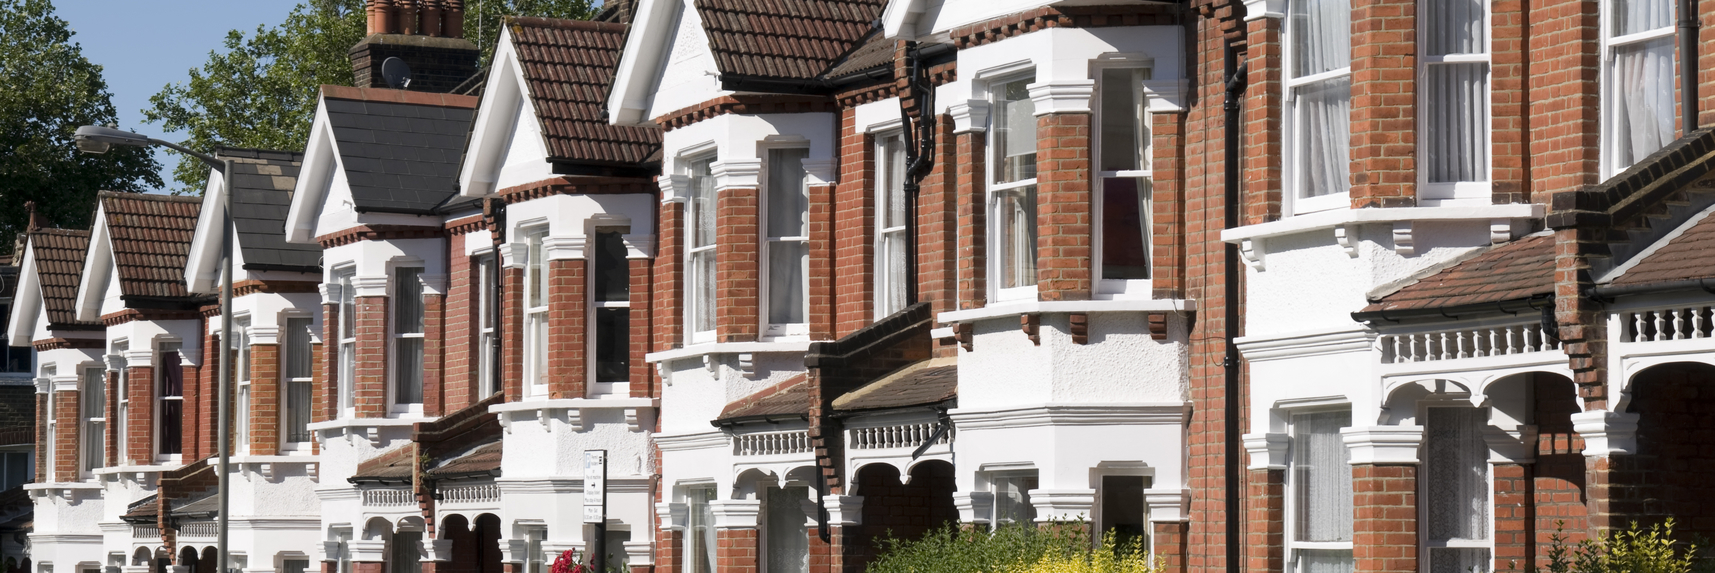
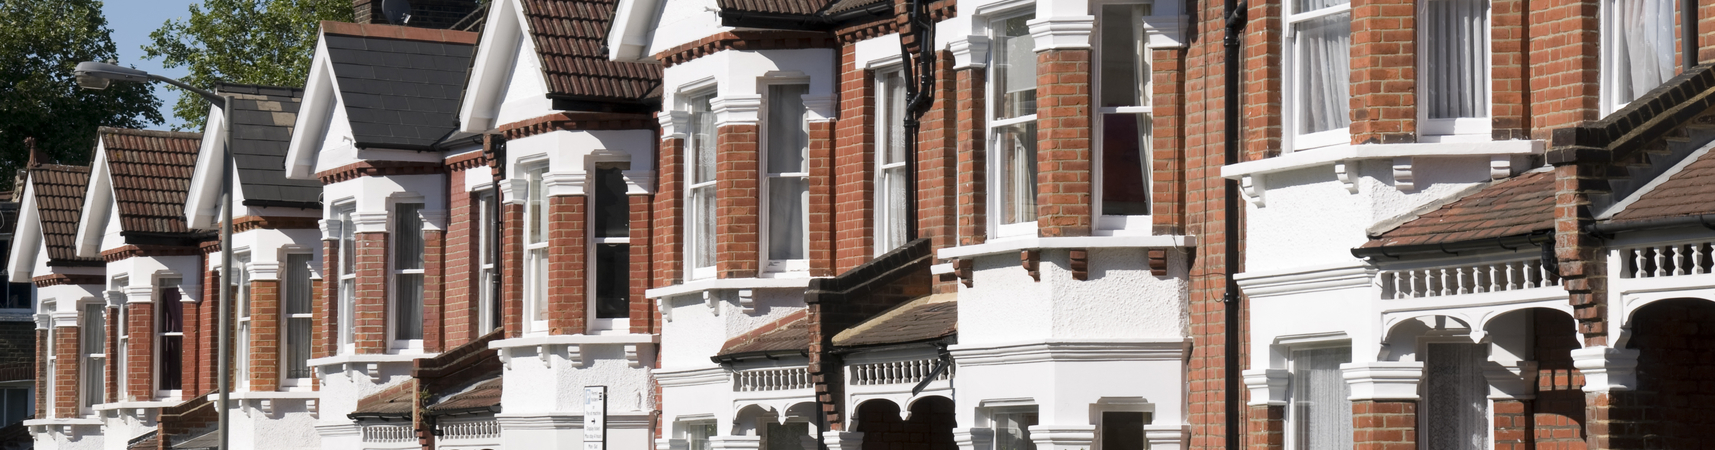
layout

diff --git a/src/css/header.less b/src/css/header.less
@@ -1,65 +1,26 @@
 header {
-    top: 50px;
-    display: block;
-    height: 100px;
-    margin-bottom: 50px;
+    .banner {
+        width: 100%;
+        // height: 150px;
+        overflow: hidden;
+        position: relative;
 
+        img {
+            width: 100%;
+            margin-top: -11%;
 
-    .bar {
-        background: @bg-color;
-        padding: 5px 50px 5px 50px;
-        color: @text-highlight-bg-color;
-        font-family : @heading-font;
-        margin-top: 50px;
-        height: @font-size-xl;
-        line-height: @font-size-xl;
-    }
-
-    img {
-        position: absolute;
-        top: 0px;
-        border: 7px solid #fff;
-    }
-
-    .name {
-        font-size   : @font-size-xl;
-        font-weight: normal;
-        margin      : 0 0 0 120px;
-        padding     : 0;
-    }
-
-    .cv {
-        font-family: @body-font;
-        position: absolute;
-        top: -10px;
-        left: 170px;
-        text-transform: capitalize;
-        color: @bg-color;
-    }
-
-    .contacts {
-        font-size    : @font-size-l;
-        float        : right;
-        margin-right : 20px;
-        font-weight: normal;
-
-        a {
-            color: inherit;
-            border-bottom: none;
-
-            &:hover {
-                color: inherit;
-            }
         }
-    }
 
-    a {
-        text-decoration: none;
-        color       : @text-color;
-    }
+        h1 {
+            position: absolute;
+            color: #fff;
+            text-align: center;
+            width: 80%;
+            left: 10%;
+            text-shadow: 2px 2px #000;
+            font-weight: bold;
+            top: 20%;
+        }
 
-    a:hover {
-        color       : @text-color;
-        text-decoration: none;
     }
 }

diff --git a/src/css/styles.less b/src/css/styles.less
@@ -1,70 +1,9 @@
-// @import "variables";
+footer {
+    margin-top: 50px;
+    padding: 20px;
+    color: #fff;
+}
 
 body {
-    font-family : @body-font;
-    font-family: @heading-font;
-    font-size   : @font-size-m;
-    color       : @text-color;
-    margin      : 5px;
-}
-
-
-h1 {
-    background: @bg-color;
-    color: @text-highlight-bg-color;
-    font-family: @heading-font;
-    font-size: @font-size-xl;
-    padding: 2px 5px 2px 20px;
-    font-weight: normal;
-}
-
-h3 {
-    font-family : @heading-font;
-    color       : @text-color-strong;
-    margin: 10px 0 5px 0;
-    font-weight : normal;
-
-    .company {
-        color       : @text-color;
-    }
-
-    .date {
-        color       : @text-color;
-        float: right;
-    }
-}
-
-label {
-    font-family : @heading-font;
-    color       : @text-color-strong;
-    font-weight : normal;
-    text-align  : right;
-    display     : inline-block;
-
-    &.title {
-        margin-right: 5px;
-        min-width   : 120px;
-    }
-}
-
-.inset {
-    margin: 20px 0 50px 50px;
-}
-
-
-a {
-    border-bottom: 1px dotted @text-color;
-    text-decoration: none;
-    color: @text-color;
-
-    &:hover{
-        border-bottom: 1px dotted @text-color-strong;
-        text-decoration: none;
-        color: @text-color-strong;
-    }
-}
-
-.wrapper {
-    margin-left: 5%;
-    margin-right: 5%;
+    padding: 20px;
 }

diff --git a/src/css/print.less b/src/css/print.less
@@ -1,5 +1,5 @@
 @import "variables";
 
 body {
-  background: transparent; 
+  background: transparent;
 }
